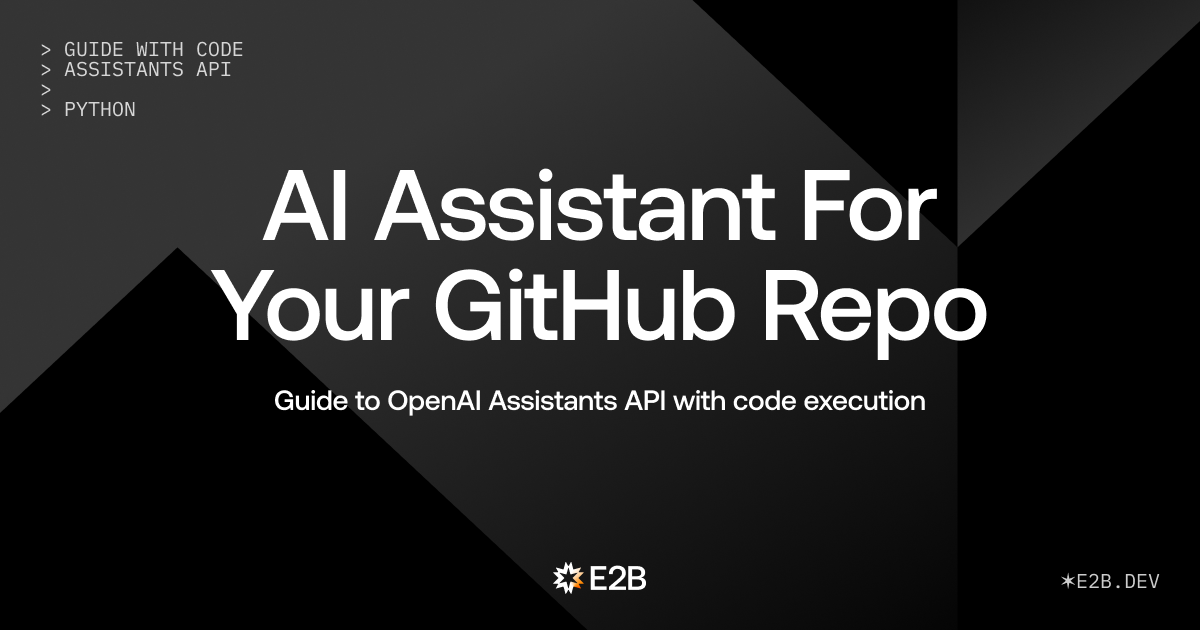
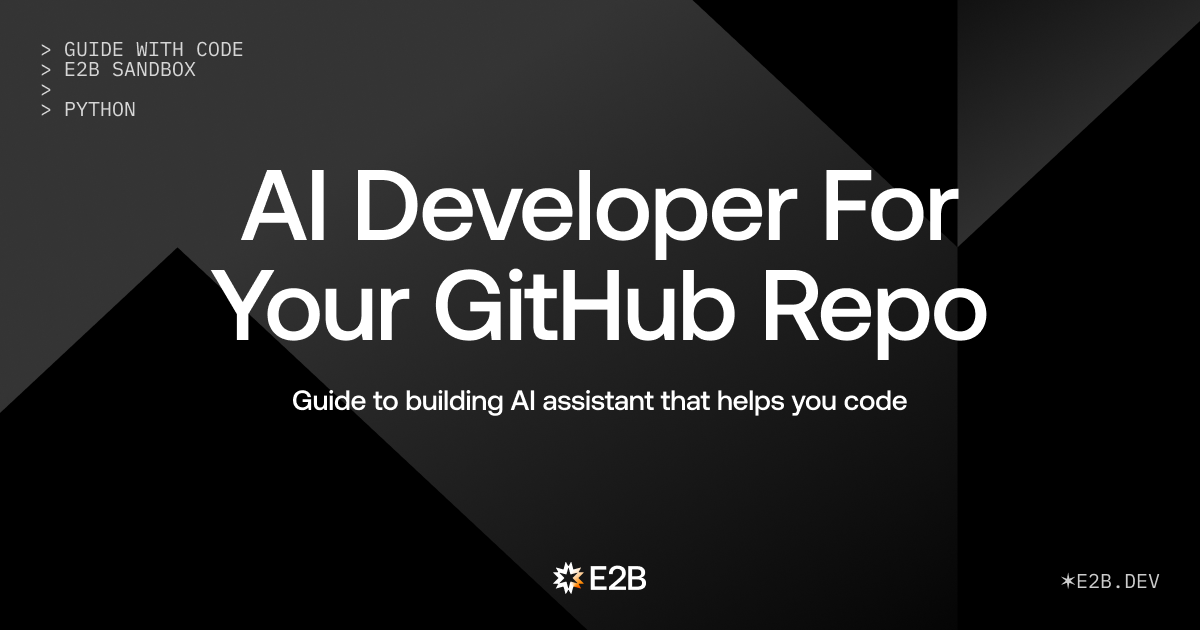
Update poetry settings, readme visuals

Changed region(s): [[0.185, 0.2714, 0.8017, 0.4222], [0.2158, 0.6032, 0.7708, 0.6635], [0.0308, 0.0905, 0.185, 0.1206]]

diff --git a/guides/ai-github-developer-py/ai_github_developer/main.py b/guides/ai-github-developer-py/ai_github_developer/main.py
@@ -3,7 +3,7 @@ from dotenv import load_dotenv
 from e2b import Sandbox
 import openai
 import time
-from openai_assistant.actions import (
+from ai_github_developer.actions import (
     create_directory,
     read_file,
     save_content_to_file,

diff --git a/guides/ai-github-developer-py/guide/README.md b/guides/ai-github-developer-py/guide/README.md
@@ -1,4 +1,4 @@
-# Let OpenAI Assistants Work on Your GitHub Repo
+# AI GitHub Developer
 
 ## Python guide with complete code
 
@@ -21,7 +21,7 @@ We will use the E2B Sandboxes for the remote execution of tasks, together with t
 > You can find the final code [here](https://github.com/e2b-dev/e2b-cookbook/tree/main/guides/openai-assistant-py/openai_assistant)
 . All links to particular parts of code in this post refer to the corresponding code on GitHub.
 
-![Video](1219_001.gif)
+![Video](000.gif)
 
 ### Prerequisites
 
